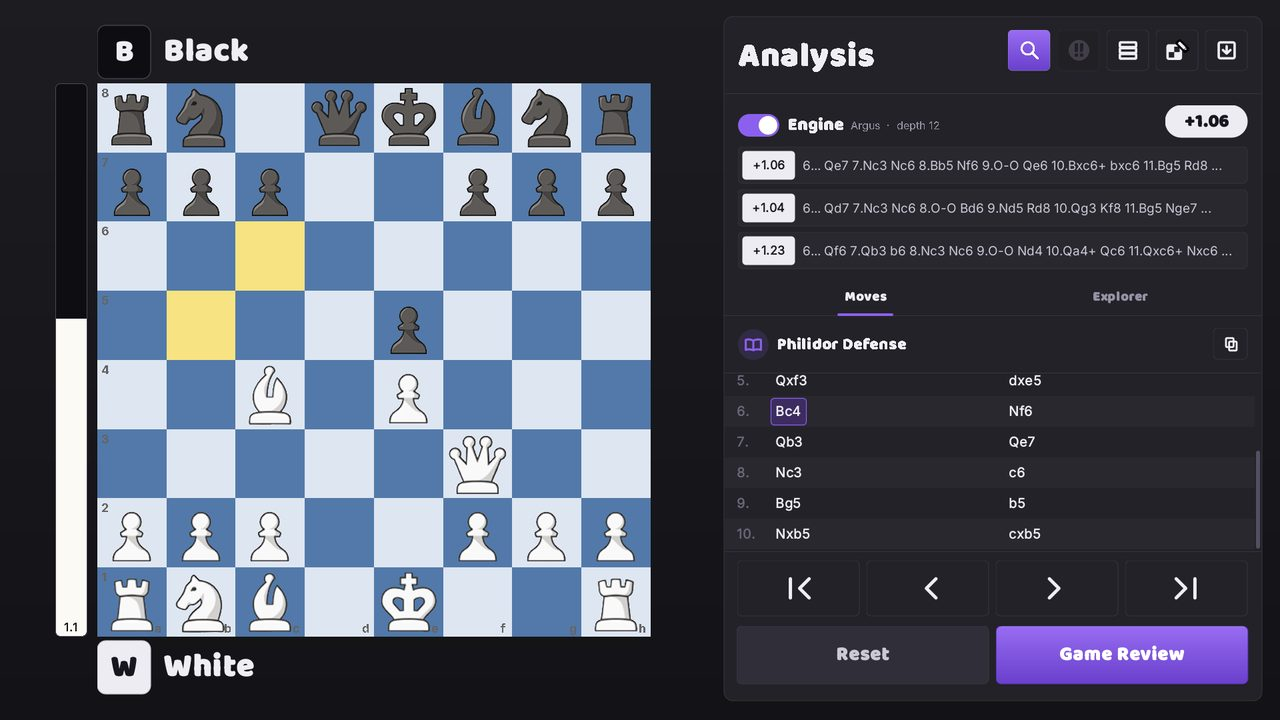
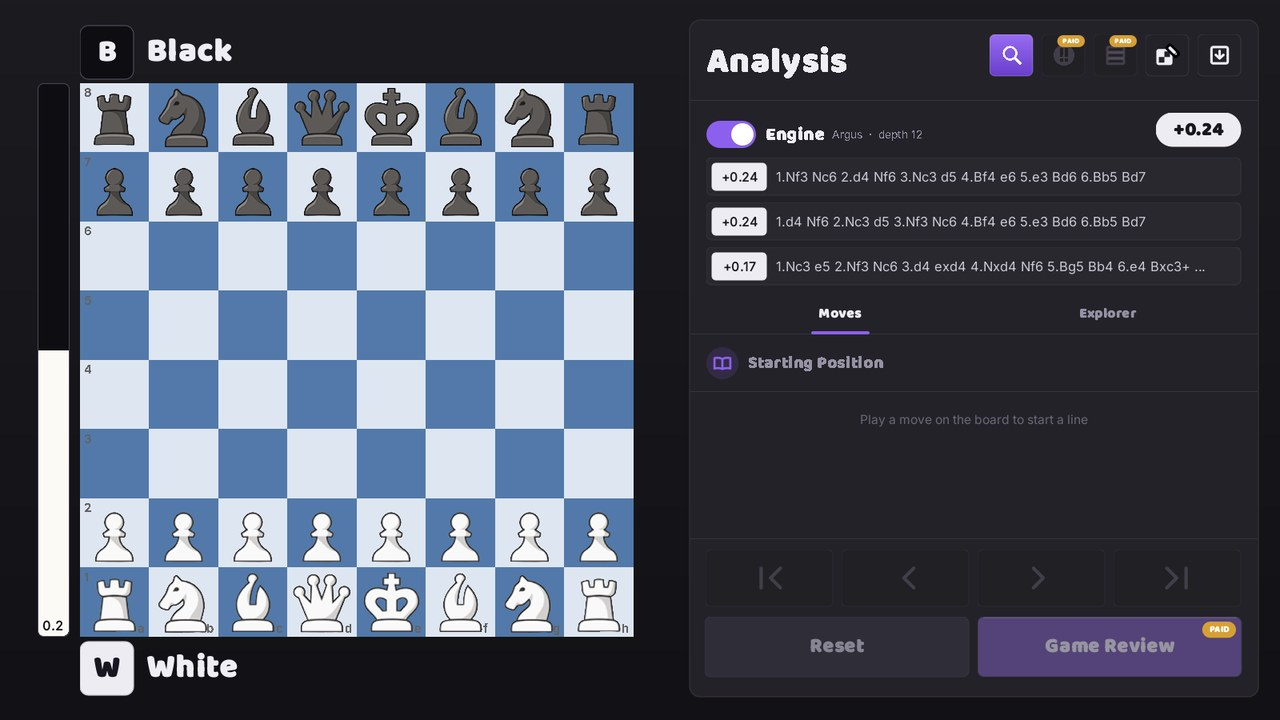
Free 1.1.0

diff --git a/index.html b/index.html
@@ -16,7 +16,7 @@
 <header class="hero">
   <img class="wordmark" src="img/wordmark.png" alt="Scaccomatto" width="1100" height="300">
   <p class="tagline">Chess, with personality. Free.</p>
-  <p class="lead">Seven ways to play against a friend, and bots with stories of their own. No account, no ads, nothing to buy.</p>
+  <p class="lead">Seven ways to play against a friend, bots with stories of their own, and an analysis board with a real engine behind it. No account, no ads, nothing to buy.</p>
 
   <div class="downloads">
     <a class="btn btn-primary" id="dl-windows" href="#" data-fallback>
@@ -28,7 +28,7 @@
       <span><strong>Download for Linux</strong><small id="dl-linux-note">.deb for Ubuntu, Mint, Debian</small></span>
     </a>
   </div>
-  <p class="fineprint"><span id="version">Scaccomatto Free 1.0.0</span> · Java is built in, so there's nothing else to install. · <a href="#install">Install help</a></p>
+  <p class="fineprint"><span id="version">Scaccomatto Free 1.1.0</span> · Java is built in, so there's nothing else to install. · <a href="#install">Install help</a></p>
 </header>
 
 <main>
@@ -52,10 +52,15 @@
       <h2>Watch the bots fight it out</h2>
       <p>Pick any two bots, sit back, and watch them play each other. Good for learning, or just for watching Gary suffer.</p>
     </article>
+    <article>
+      <img src="img/analysis.jpg" alt="The Analysis board with the engine's best lines" width="1280" height="720" loading="lazy">
+      <h2>Analysis, built in</h2>
+      <p>Set up any position, or paste in a game, and Argus shows you the best lines and who's better. There's an opening explorer, and you can build your own repertoire and drill it. Turn on the evaluation bar or a best-move hint during your games if you want a nudge.</p>
+    </article>
     <article class="full">
       <img src="img/spectategame.jpg" alt="A game in progress" width="1280" height="720" loading="lazy">
       <h2>Want the whole thing?</h2>
-      <p>The full version of Scaccomatto adds online play, Analysis, Game Review, Puzzles, Lessons and Spell Chess. It's coming soon on Steam and itch.io.</p>
+      <p>The full version of Scaccomatto adds online play, Game Review, accounts and achievements, with Puzzles, Lessons and Spell Chess on the way. It's coming soon on Steam and itch.io.</p>
     </article>
   </section>
 
@@ -94,7 +99,7 @@
     <h2>Questions</h2>
     <details>
       <summary>Is it really free?</summary>
-      <p>Yes. Scaccomatto Free has no ads, no account and nothing to buy inside it. The full version, with online play, Analysis, Game Review, Puzzles, Lessons and Spell Chess, is coming soon on Steam and itch.io.</p>
+      <p>Yes. Scaccomatto Free has no ads, no account and nothing to buy inside it. The full version, with online play, Game Review, accounts and achievements, is coming soon on Steam and itch.io.</p>
     </details>
     <details>
       <summary>What about Mac?</summary>
@@ -116,7 +121,7 @@
 </main>
 
 <footer>
-  <p>© 2026 Alekhine Studios Private Limited</p>
+  <p>© 2026 Alekhine Studios</p>
   <p><a href="privacy.html">Privacy</a> · <a href="credits.html">Credits</a> · <a id="all-releases" href="#">All versions</a></p>
 </footer>
 

diff --git a/credits.html b/credits.html
@@ -15,7 +15,7 @@
   <a class="back" href="index.html"><img src="img/icon.png" alt="" width="40" height="40">Scaccomatto</a>
 
   <h1>Credits</h1>
-  <p>Scaccomatto is designed and built by Alekhine Studios Private Limited. The chess engine, Argus, was written from scratch for it: it plays every bot, runs the analysis and powers Game Review. The bots, their stories and artwork were made for Scaccomatto too.</p>
+  <p>Scaccomatto is designed and built by Alekhine Studios. The chess engine, Argus, was written from scratch for it: it plays every bot, runs the analysis and powers Game Review. The bots, their stories and artwork were made for Scaccomatto too.</p>
   <p>Everything below is other people's work, used under the licence it was shared with. Thank you.</p>
 
   <h2>Music</h2>
@@ -47,7 +47,7 @@
   </ul>
 </div>
 <footer>
-  <p>© 2026 Alekhine Studios Private Limited</p>
+  <p>© 2026 Alekhine Studios</p>
   <p><a href="index.html">Download</a> · <a href="privacy.html">Privacy</a></p>
 </footer>
 </body>

diff --git a/style.css b/style.css
@@ -127,3 +127,9 @@ footer p { margin: 4px 0; }
 
 /* the "full version" card stands out a little */
 .features article.full h2 { color: var(--gold-deep); }
+/* an odd number of features: the "full version" card takes the whole last row */
+.features article.full { grid-column: 1 / -1; display: grid; grid-template-columns: 1fr 1fr; gap: 0 32px; align-items: center; }
+.features article.full img { grid-row: span 2; margin-bottom: 0; }
+.features article.full h2 { align-self: end; }
+.features article.full p { align-self: start; }
+@media (max-width: 820px) { .features article.full { display: block; } .features article.full img { margin-bottom: 16px; } }

diff --git a/privacy.html b/privacy.html
@@ -43,7 +43,7 @@
   <p>Questions: <a href="mailto:alekhinestudios@gmail.com">alekhinestudios@gmail.com</a></p>
 </div>
 <footer>
-  <p>© 2026 Alekhine Studios Private Limited</p>
+  <p>© 2026 Alekhine Studios</p>
   <p><a href="index.html">Download</a> · <a href="credits.html">Credits</a></p>
 </footer>
 </body>

diff --git a/README.md b/README.md
@@ -1,6 +1,6 @@
 # Scaccomatto Free
 
-Chess, with personality. A free chess game for Windows and Linux by Alekhine Studios Private Limited.
+Chess, with personality. A free chess game for Windows and Linux by Alekhine Studios.
 
 **[Download the latest version](../../releases/latest)** · [Website](https://curious3dofficial.github.io/scaccomatto-download/)
 
@@ -18,4 +18,4 @@ Online play, Analysis, Game Review, Puzzles, Lessons and Spell Chess are in the 
 
 Found a problem? Email alekhinestudios@gmail.com
 
-© 2026 Alekhine Studios Private Limited
+© 2026 Alekhine Studios
